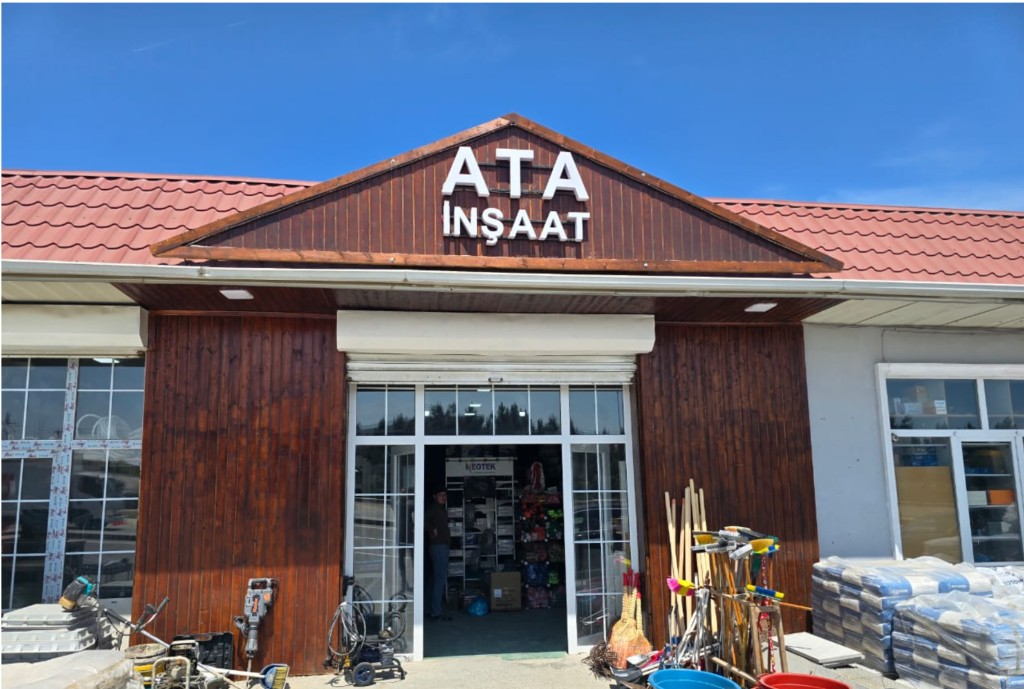
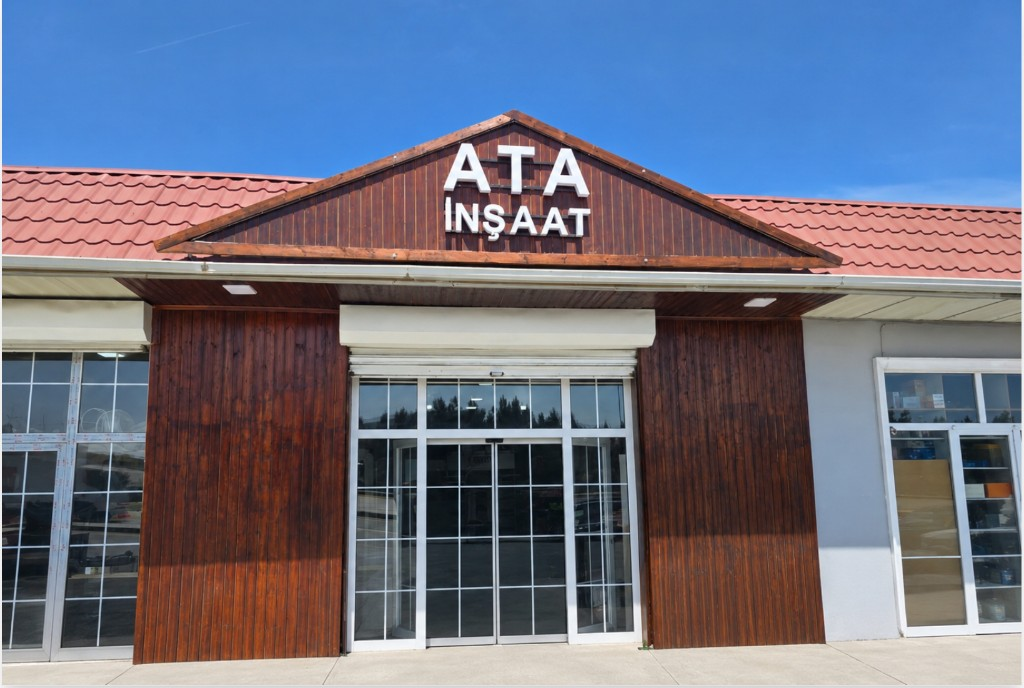
Update index.html for improved SEO and content clarity; modify title and descriptions with em dashes, enhance hero section text, and refine footer information. Add CSS comment for site identification. Update hero image.

diff --git a/index.html b/index.html
@@ -3,15 +3,16 @@
 <head>
   <meta charset="UTF-8">
   <meta name="viewport" content="width=device-width, initial-scale=1">
-  <title>ATA İnşaat - Tikinti materialları | Bakı, Sabunçu</title>
-  <meta name="description" content="ATA İnşaat - tikinti materiallarının topdan və pərakəndə satışı. Bakı, Sabunçu rayonu. Geniş çeşid, peşəkar xidmət, keyfiyyətli məhsullar.">
+  <title>ATA İnşaat — Tikinti materialları | Bakı, Sabunçu</title>
+  <meta name="description" content="ATA İnşaat — tikinti materiallarının topdan və pərakəndə satışı. Bakı, Sabunçu rayonu. Geniş çeşid, peşəkar xidmət, keyfiyyətli məhsullar.">
   <meta name="keywords" content="ATA İnşaat, tikinti materialları, topdan satış, pərakəndə, Bakı, Sabunçu, xırdavat, santexnika, alətlər">
   <meta name="robots" content="index, follow">
+  <!-- Canonical host: atainsaat.az. ata-insaat.az eyni saytı göstərə bilər; SEO üçün canonical bir ünvanda qalır. -->
   <link rel="canonical" href="https://atainsaat.az/">
 
   <meta property="og:type" content="website">
   <meta property="og:locale" content="az_AZ">
-  <meta property="og:title" content="ATA İnşaat - Tikinti materialları">
+  <meta property="og:title" content="ATA İnşaat — Tikinti materialları">
   <meta property="og:description" content="Tikinti materiallarının topdan və pərakəndə satışı. Bakı, Sabunçu.">
   <meta property="og:url" content="https://atainsaat.az/">
   <meta property="og:site_name" content="ATA İnşaat">
@@ -19,7 +20,7 @@
   <meta property="og:image:alt" content="ATA İnşaat mağazası və təchizat">
 
   <meta name="twitter:card" content="summary_large_image">
-  <meta name="twitter:title" content="ATA İnşaat - Tikinti materialları">
+  <meta name="twitter:title" content="ATA İnşaat — Tikinti materialları">
   <meta name="twitter:description" content="Tikinti materiallarının topdan və pərakəndə satışı. Bakı.">
   <meta name="twitter:image" content="https://atainsaat.az/images/hero-storefront.png">
 
@@ -84,7 +85,7 @@
 
   <header class="site-header" role="banner">
     <div class="container header__inner">
-      <a class="brand" href="./" aria-label="ATA İnşaat - ana səhifə">
+      <a class="brand" href="./" aria-label="ATA İnşaat — ana səhifə">
         <span class="brand__logo-wrap" aria-hidden="true">
           <img class="brand__logo" src="images/logo.png" width="80" height="80" alt="" decoding="async">
         </span>
@@ -122,7 +123,7 @@
         <div class="hero__content">
           <p class="hero__eyebrow">Bakı · Tikinti və xırdavat</p>
           <h1 id="hero-title" class="hero__title">Tikinti materiallarında <span class="text-gold">etibarlı tərəfdaş</span></h1>
-          <p class="hero__lead">Topdan və pərakəndə satış. Geniş anbar, peşəkar məsləhət və keyfiyyətli brendlər bir ünvanda.</p>
+          <p class="hero__lead">Topdan və pərakəndə satış. Geniş anbar, peşəkar məsləhət və keyfiyyətli brendlər — layihəniz üçün bir ünvanda.</p>
           <div class="hero__actions">
             <a class="btn btn--gold btn--lg" href="https://wa.me/[phone redacted]" rel="noopener noreferrer">WhatsApp ilə yazın</a>
             <a class="btn btn--ghost btn--lg" href="#haqqimizda">Haqqımızda</a>
@@ -147,17 +148,17 @@
           <div class="about-grid__copy">
             <h2 id="about-title" class="section__title">Haqqımızda</h2>
             <p class="section__lead"><strong>ATA İnşaat</strong> tikinti materialları, xırdavat, alətlər, santexnika və ev təmiri üçün məhsulların satışını həyata keçirir. Həm peşəkar podratçılar, həm də fərdi müştərilər üçün fiziki mağaza və zəngin çeşid təklif edirik.</p>
-            <p>Bizim üçün vacib olan - keyfiyyət, şəffaflıq və uzunmüddətli münasibətlərdir. Komandamız məhsul seçimində və təchizatda kömək etməyə hazırdır; tezliklə veb sayt üzərindən məhsul kataloqu və onlayn sifariş imkanı da əlavə olunacaq.</p>
+            <p>Bizim üçün vacib olan — keyfiyyət, şəffaflıq və uzunmüddətli münasibətlərdir. Komandamız məhsul seçimində və təchizatda kömək etməyə hazırdır; tezliklə veb sayt üzərindən məhsul kataloqu və onlayn sifariş imkanı da əlavə olunacaq.</p>
             <ul class="about-highlights">
               <li>Topdan və pərakəndə satış</li>
               <li>Geniş çeşid və anbar ehtiyatı</li>
-              <li>Yaxınlaşmaq asan olan ünvan - Bakı ş. Sabunçu r. Dairəvi yol Ləhic bağları <strong>D16</strong></li>
+              <li>Yaxınlaşmaq asan olan ünvan — Sabunçu</li>
             </ul>
           </div>
           <aside class="about-grid__panel" aria-label="Şirkət haqqında qısa faktlar">
             <blockquote class="about-quote">
               <p>“Tikinti materiallarının topdan və pərakəndə satışı”</p>
-              <footer>- <cite>ATA İnşaat</cite></footer>
+              <footer>— <cite>ATA İnşaat</cite></footer>
             </blockquote>
             <div class="stat-row">
               <div class="stat">
@@ -177,7 +178,7 @@
     <section id="galereya" class="section section--gallery" aria-labelledby="gallery-title">
       <div class="container">
         <h2 id="gallery-title" class="section__title section__title--center">Mağaza və çeşid</h2>
-        <p class="section__subtitle">Ön giriş, anbar və satış zalı - real mühitdən fotoşəkillər.</p>
+        <p class="section__subtitle">Ön giriş, anbar və satış zalı — real mühitdən fotoşəkillər.</p>
         <ul class="gallery-grid">
           <li><a class="gallery-tile" href="images/photo-02.png" target="_blank" rel="noopener"><img src="images/photo-02.png" width="640" height="480" loading="lazy" decoding="async" alt="ATA İnşaat tikinti materialları və anbar"></a></li>
           <li><a class="gallery-tile" href="images/photo-03.png" target="_blank" rel="noopener"><img src="images/photo-03.png" width="640" height="480" loading="lazy" decoding="async" alt="ATA İnşaat xırdavat və alətlər"></a></li>
@@ -229,7 +230,7 @@
       <div class="container cta-strip">
         <div>
           <h2 id="cta-title" class="cta-strip__title">Sifariş və məsləhət</h2>
-          <p class="cta-strip__text">Ən tez yol - WhatsApp və ya zəng. Ünvanımıza yaxınlaşaraq çeşidi yerində görə bilərsiniz.</p>
+          <p class="cta-strip__text">Ən tez yol — WhatsApp və ya zəng. Ünvanımıza yaxınlaşaraq çeşidi yerində görə bilərsiniz.</p>
         </div>
         <div class="cta-strip__actions">
           <a class="btn btn--gold" href="tel:[phone redacted]">Zəng: [phone redacted]</a>
@@ -242,7 +243,7 @@
   <footer id="elaqe" class="site-footer" role="contentinfo">
     <div class="container footer__grid">
       <div class="footer__brand">
-        <a class="brand brand--footer" href="./" aria-label="ATA İnşaat - ana səhifə">
+        <a class="brand brand--footer" href="./" aria-label="ATA İnşaat — ana səhifə">
           <span class="brand__logo-wrap" aria-hidden="true">
             <img class="brand__logo" src="images/logo.png" width="72" height="72" alt="" decoding="async">
           </span>
@@ -289,7 +290,7 @@
     </div>
 
     <div class="container footer__bottom">
-      <p class="footer__domains">Veb ünvanlar: <a href="https://atainsaat.az/">atainsaat.az</a> və <a href="https://ata-insaat.az/">ata-insaat.az</a></p>
+      <p class="footer__domains">Veb ünvanlar: <a href="https://atainsaat.az/">atainsaat.az</a> və <a href="https://ata-insaat.az/">ata-insaat.az</a> — eyni məzmun.</p>
       <p>© <span data-year></span> ATA İnşaat. Bütün hüquqlar qorunur.</p>
     </div>
   </footer>

diff --git a/css/main.css b/css/main.css
@@ -1,3 +1,4 @@
+/* ATA İnşaat — public site */
 :root {
   --bg-deep: #070708;
   --bg: #0c0c0e;